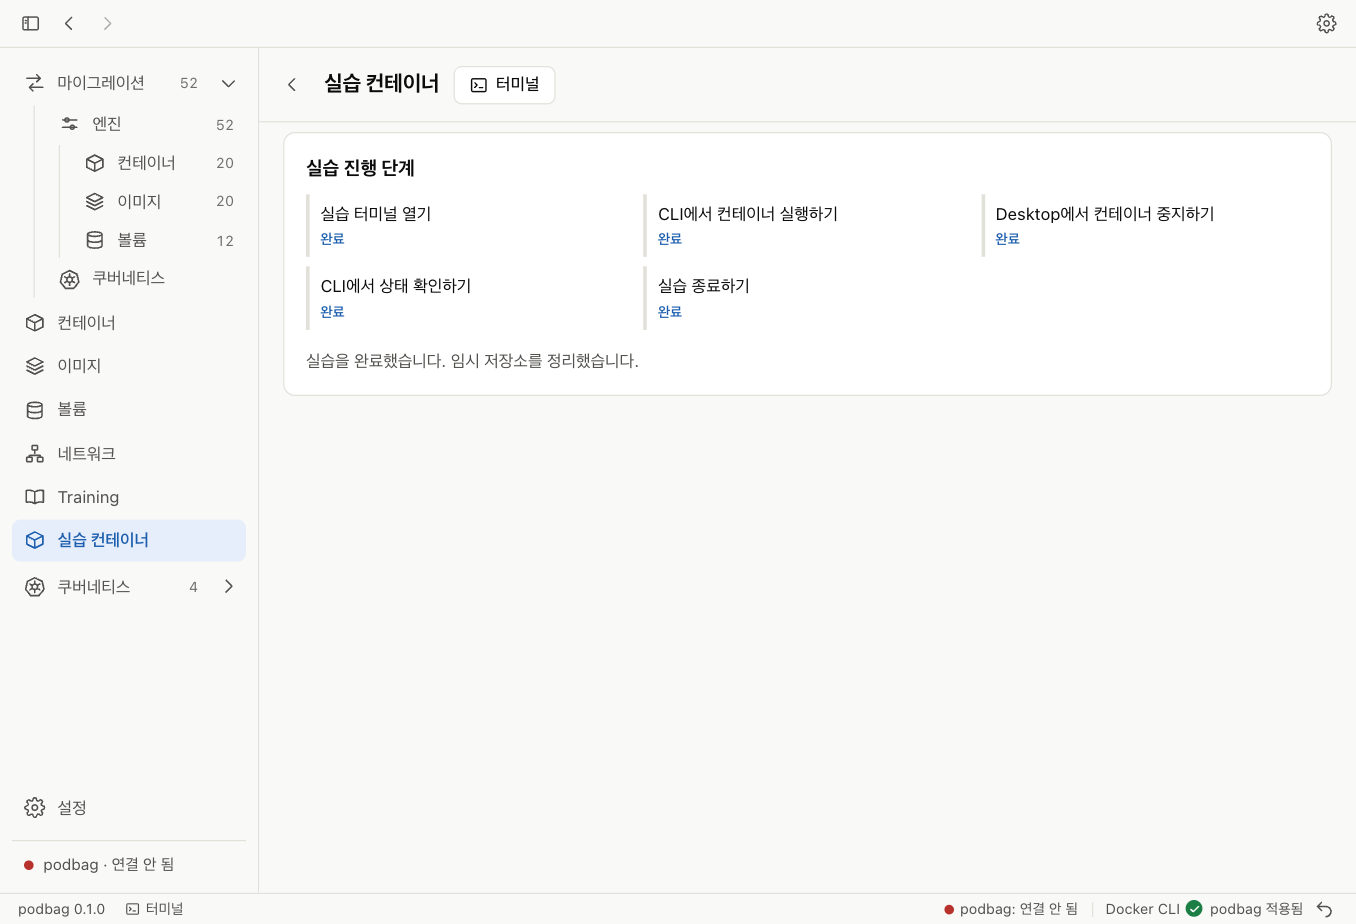
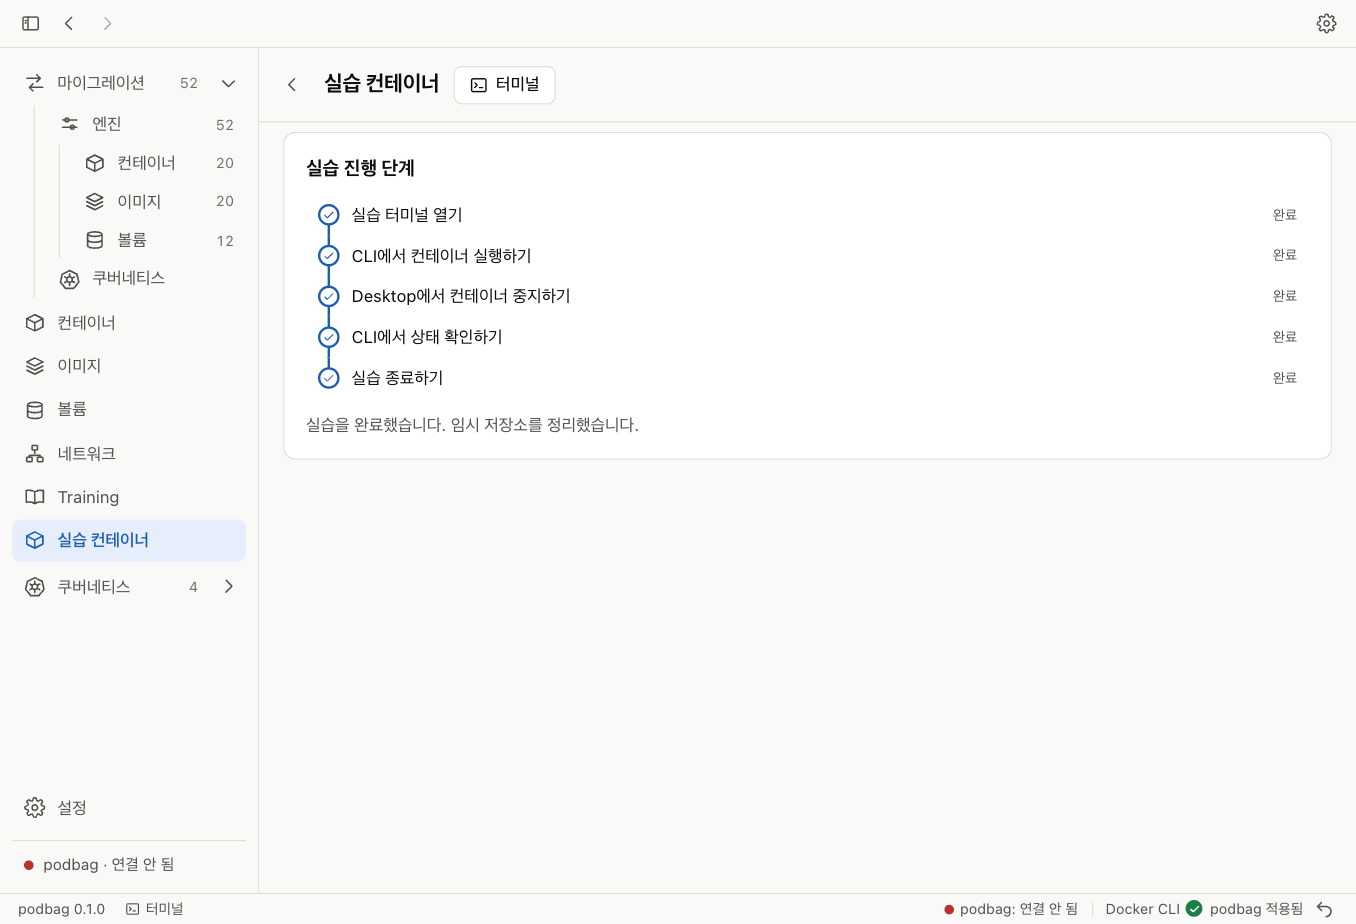
docs: show the container training flow before the guide

diff --git a/site/blog.css b/site/blog.css
@@ -142,6 +142,30 @@ html:not(.can-share) [data-native] { display: none; }
 .prose .code { margin: 14px 0 20px; }
 .prose .code pre { font-size: 14.5px; }
 
+.post-outline {
+  display: block; height: auto; margin-bottom: 22px; padding: 14px 16px; border: 1px solid var(--line);
+  background: var(--surface); border-radius: 10px;
+}
+.post-outline p { margin: 0 0 6px; font-size: 15px; font-weight: 700; }
+.post-outline ol { list-style: none; margin: 0; padding: 0; }
+.post-outline li { position: relative; margin: 0; }
+.post-outline li::before {
+  content: ""; position: absolute; inset-inline-start: 14px; inset-block: 0;
+  width: 2px; background: var(--line);
+}
+.post-outline li:first-child::before { inset-block-start: 50%; }
+.post-outline li:last-child::before { inset-block-end: 50%; }
+.post-outline a {
+  position: relative; display: flex; align-items: center; gap: 12px;
+  min-height: 38px; padding: 5px 10px; border-radius: 6px;
+  color: var(--ink); font-size: 15px; line-height: 1.4; text-decoration: none; white-space: normal;
+}
+.post-outline a::before {
+  content: ""; flex: 0 0 10px; height: 10px; box-sizing: border-box;
+  background: var(--surface); border: 2px solid var(--accent); border-radius: 50%;
+}
+.post-outline a:is(:hover, :focus-visible) { color: var(--accent); text-decoration: underline; }
+
 .post-foot { display: grid; gap: 22px; margin-top: 44px; padding-top: 28px; border-top: 1px solid var(--line); }
 .author-box { display: flex; gap: 16px; align-items: flex-start; background: var(--surface); border: 1px solid var(--line); border-radius: 12px; padding: 18px 20px; }
 .author-box > img { flex: none; border-radius: 12px; }

diff --git a/dev/docs/blog.py b/dev/docs/blog.py
@@ -16,12 +16,14 @@ A post starts with front matter:
     summary: One or two sentences for the lists, the feed and search engines.
     image: card-en.png
     image_alt: What the picture shows.
+    outline: Step-by-step training
     draft: false
     ---
 
 - author: a key of site/blog/authors.json.
 - categories: announcements, engineering, benchmarks, how-to.
 - image: a file next to the post, or /images/…; card-<lang>.png comes from `cards` below.
+- outline: optional title for a list of links to the post's level-two headings.
 - draft: true leaves the post out of the build.
 
 usage: python3 dev/docs/blog.py cards     # draw each post's sharing card (Chrome, Node.js 22)
@@ -148,15 +150,23 @@ class Markdown:
              (media, src) pairs for a <picture>.
     """
 
-    def __init__(self, lang="en", root="", base="", code_button="", picture=None, table_label=""):
+    def __init__(self, lang="en", root="", base="", code_button="", picture=None, table_label="", *, outline=""):
         self.lang, self.root, self.base = lang, root, base
         self.code_button, self.picture = code_button, picture
         self.ids = set()
+        self.outline = outline
+        self.steps = []
         self.table_label = table_label
         self.comparison_count = 0
 
     def convert(self, text):
-        return self.blocks(text.replace("\r\n", "\n").replace("\t", "    ").split("\n"))
+        content = self.blocks(text.replace("\r\n", "\n").replace("\t", "    ").split("\n"))
+        if not self.steps:
+            return content
+        entries = "".join(f'<li><a href="#{ident}">{label}</a></li>' for ident, label in self.steps)
+        title = html.escape(self.outline)
+        return (f'<nav class="post-outline" aria-label="{title}"><p>{title}</p>'
+                f'<ol role="list">{entries}</ol></nav>\n{content}')
 
     # Blocks
 
@@ -223,15 +233,16 @@ class Markdown:
 
     def heading(self, level, text):
         level = max(level, 2)  # the page's title is the only <h1>
-        if m := re.match(r"^(.*?)\s*\{#([\w-]+)\}$", text):
-            text, ident = m.group(1), m.group(2)
-        else:
-            ident = slug(self.inline(text))
+        explicit = re.match(r"^(.*?)\s*\{#([\w-]+)\}$", text)
+        label = self.inline(explicit[1] if explicit else text)
+        ident = explicit[2] if explicit else slug(label)
         base, n = ident, 2
         while ident in self.ids:
             ident, n = f"{base}-{n}", n + 1
         self.ids.add(ident)
-        return f'<h{level} id="{ident}">{self.inline(text)}</h{level}>'
+        if self.outline and level == 2:
+            self.steps.append((ident, html.escape(strip(label))))
+        return f'<h{level} id="{ident}">{label}</h{level}>'
 
     def list(self, lines, i, out):
         first = LIST.match(lines[i])
@@ -418,6 +429,7 @@ class Post:
     image_alt: str
     body: str
     folder: Path = field(repr=False, default=None)
+    outline: str = ""
 
 
 def parse_value(value):
@@ -474,14 +486,16 @@ def load(path, langs, authors):
         raise SystemExit(f"{where}: no author {meta['author']!r} in authors.json")
     tags = meta.get("tags", [])
     known = {"title", "date", "author", "categories", "tags", "summary", "image", "image_alt",
-             "draft"}
+             "draft", "outline"}
     if unknown := set(meta) - known:
         raise SystemExit(f"{where}: unknown keys {sorted(unknown)}")
+    if "outline" in meta and not isinstance(meta["outline"], str):
+        raise SystemExit(f"{where}: outline must be a title")
     if meta.get("image") and not meta.get("image_alt"):
         raise SystemExit(f"{where}: an image needs image_alt")
     return Post(path.parent.name, lang, meta["title"], day, meta["author"], categories,
                 tags if isinstance(tags, list) else [tags], meta["summary"],
-                meta.get("image", ""), meta.get("image_alt", ""), body, path.parent)
+                meta.get("image", ""), meta.get("image_alt", ""), body, path.parent, meta.get("outline", ""))
 
 
 def load_all(folder, langs, authors):
@@ -575,9 +589,9 @@ class Builder:
             return root + post.image[1:], image_size(path)
         return root + f"blog/{post.slug}/{post.image}", image_size(post.folder / post.image)
 
-    def body(self, post, root, button="", table_label=""):
+    def body(self, post, root, button="", table_label="", *, outline=""):
         return markdown(post.body, lang=post.lang, root=root, base=f"/blog/{post.slug}/",
-                        code_button=button, picture=self.picture, table_label=table_label)
+                        code_button=button, picture=self.picture, table_label=table_label, outline=outline)
 
     # Pieces
 
@@ -826,7 +840,7 @@ class Builder:
         content = (f'<article class="post">{crumbs}<header class="post-head">'
                    f'<h1>{html.escape(post.title)}</h1>{self.meta_line(post, w, root, with_share=False)}'
                    f"{share}</header>"
-                   f'<div class="prose">{self.body(post, root, copy_button(w), w["data_table"])}</div>'
+                   f'<div class="prose">{self.body(post, root, copy_button(w), w["data_table"], outline=post.outline)}</div>'
                    f'<footer class="post-foot">{about}{tags_html}{steps_html}</footer>'
                    f"{near_html}</article>")
         image, size = self.image_url(post, self.url)

diff --git a/site/blog/posts/container-basics/ko.md b/site/blog/posts/container-basics/ko.md
@@ -7,6 +7,7 @@ tags: [cli, containers, desktop, training]
 summary: "CLI에서 작은 웹 서버를 실행하고 Podbag Desktop에서 중지합니다. 다시 CLI에서 중지 상태를 확인합니다."
 image: running-ko.png
 image_alt: "Podbag Desktop에서 실행 중인 hello-web 컨테이너"
+outline: "실습 흐름"
 draft: false
 ---
 
@@ -22,11 +23,15 @@ podbag lab install container-basics.podbag
 
 이 실습을 이미 설치했다면 새 파일을 다시 설치해도 완료 기록이 유지됩니다. `podbag lab list`로 설치한 실습을 확인할 수 있습니다.
 
-![실습 터미널을 연 뒤 Training에 설치된 컨테이너 실습](training-ko.png)
+## 실습 터미널 열기
+
+Training 카드에서 **터미널**을 누릅니다. `container-lab $` 프롬프트가 나올 때까지 기다립니다.
+
+![실습 터미널 열기가 완료되고 CLI 실행 단계가 진행 중인 Training 화면](training-ko.png)
 
 ## CLI에서 웹 서버 실행하기
 
-Training 카드에서 **터미널**을 누릅니다. `container-lab $` 프롬프트가 나오면 다음 명령을 입력합니다. 처음 실행할 때 Podbag이 실습 이미지를 내려받습니다.
+같은 실습 터미널에서 다음 명령을 입력합니다. 처음 실행할 때 Podbag이 실습 이미지를 내려받습니다.
 
 ```sh
 podbag run -d --name hello-web --network none docker.io/library/busybox:1.37.0 httpd -f -p 8080

diff --git a/site/blog/posts/container-basics/en.md b/site/blog/posts/container-basics/en.md
@@ -7,6 +7,7 @@ tags: [cli, containers, desktop, training]
 summary: "Start a small web server in the CLI, stop it in Podbag Desktop, and check its status in the same terminal."
 image: running-en.png
 image_alt: "A running hello-web container in Podbag Desktop"
+outline: "Training flow"
 draft: false
 ---
 
@@ -22,11 +23,15 @@ podbag lab install container-basics.podbag
 
 If you already installed this training module, install the new file over it to keep your completion record. Run `podbag lab list` to see your installed modules.
 
-![The container module in Training with the practice terminal open](training-en.png)
+## Open the practice terminal
+
+On the Training card, select **Terminal**. Wait for the `container-lab $` prompt.
+
+![Training shows the practice terminal step complete and the CLI run step in progress](training-en.png)
 
 ## Run the web server in the CLI
 
-On the Training card, select **Terminal**. Wait for the `container-lab $` prompt, then run the command. Podbag downloads the practice image on the first run.
+Enter the command below in the practice terminal. Podbag downloads the practice image on the first run.
 
 ```sh
 podbag run -d --name hello-web --network none docker.io/library/busybox:1.37.0 httpd -f -p 8080
